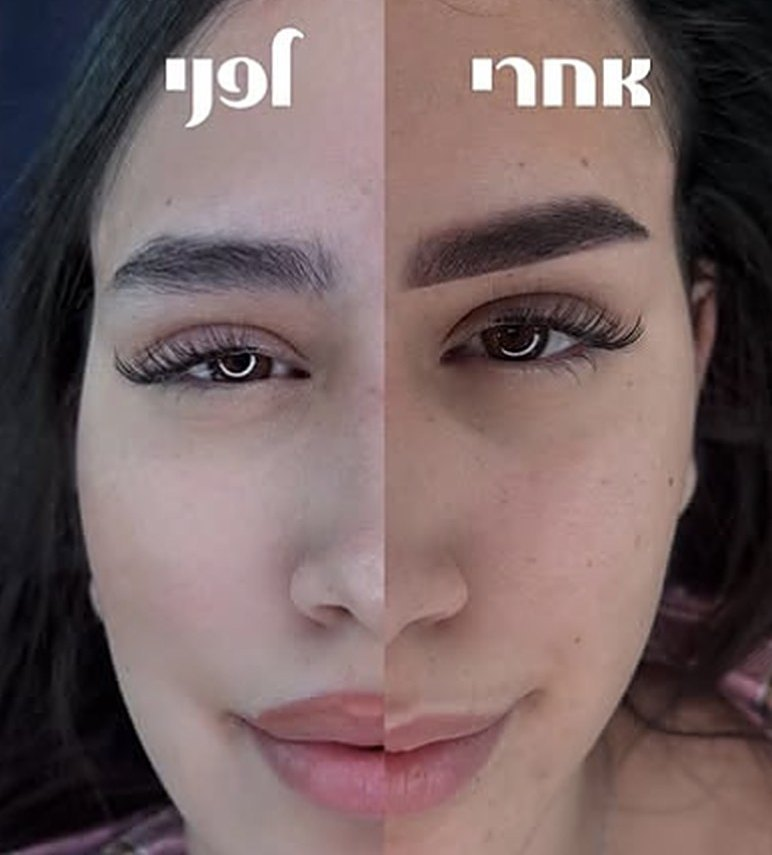
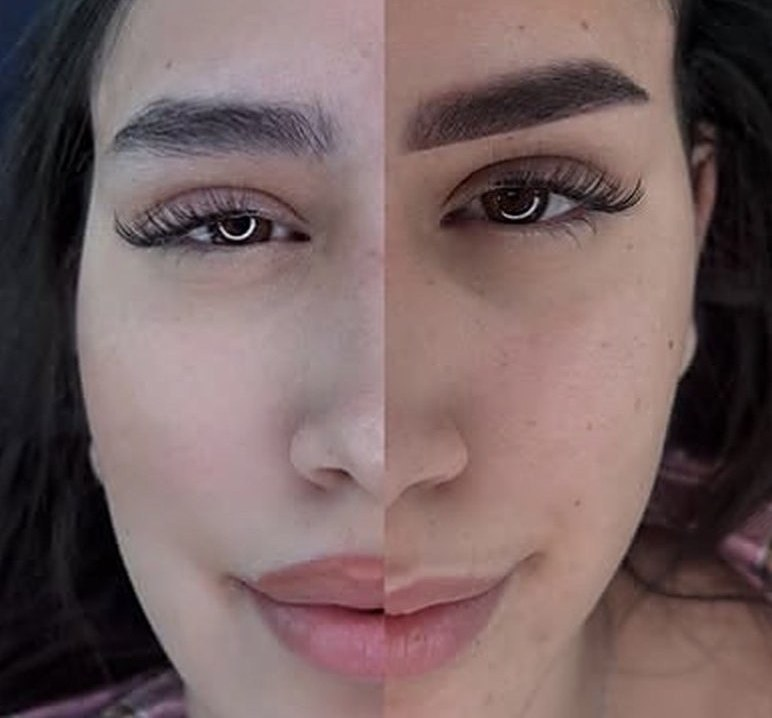
Mirel: cleaner photo crops, drop weaker image, before/after labels
Claude-Session: https://claude.ai/code/session_01DmALFc4ZmMGKfp1yJDhNro

diff --git a/mirel-landing/index.html b/mirel-landing/index.html
@@ -150,6 +150,8 @@ h2 em,h1 em{font-style:normal;color:var(--rose-d)}
 .res .row{display:grid;grid-template-columns:1fr 1fr;gap:16px}
 .res .sm{position:relative;border-radius:var(--r);overflow:hidden;aspect-ratio:4/5}
 .res .sm img{width:100%;height:100%;object-fit:cover}
+.ba-l{position:absolute;top:16px;font:400 15px var(--body);letter-spacing:.08em;background:rgba(251,247,242,.92);color:var(--ink);padding:5px 15px;border-radius:999px}
+.ba-l.l{left:16px}.ba-l.r{right:16px}
 .quote{margin-top:40px;font:400 clamp(30px,8.4vw,54px)/1.25 var(--head);text-align:center}
 .quote em{font-style:normal;color:var(--rose)}
 
@@ -288,7 +290,7 @@ footer .s{font:400 30px/1 var(--sig);color:var(--cream);display:block;margin-bot
     <svg class="brow-div" viewBox="0 0 120 34" data-brow aria-hidden="true"></svg>
     <div class="svc">
       <article class="card" data-reveal>
-        <div class="ph"><img src="img-brows.jpg" alt="גבות מלאות וטבעיות אחרי עיצוב אצל מירל" width="772" height="844" loading="lazy"><span class="num">01</span></div>
+        <div class="ph"><img src="img-brows.jpg" alt="גבות מלאות וטבעיות אחרי עיצוב אצל מירל" width="486" height="790" loading="lazy"><span class="num">01</span></div>
         <div class="bd"><h3>גבות</h3><p>עיצוב ושיקום גבות טבעיות לפי מבנה הפנים שלך. גם גבות דלילות או לא סימטריות חוזרות להיות מלאות.</p>
           <ul><li>עיצוב גבות</li><li>שיקום גבות</li><li>מיקרובליידינג</li></ul></div>
       </article>
@@ -313,10 +315,10 @@ footer .s{font:400 30px/1 var(--sig);color:var(--cream);display:block;margin-bot
     <h2 data-split>לא פילטר. <em>לא איפור.</em></h2>
     <svg class="brow-div" viewBox="0 0 120 34" data-brow aria-hidden="true"></svg>
     <div class="res">
-      <figure class="big" data-reveal><img src="img-ba.jpg" alt="לפני ואחרי עיצוב גבות: צד אחד של הפנים לפני הטיפול והצד השני אחריו" width="772" height="855" loading="lazy"><figcaption>לפני ואחרי · גבות</figcaption></figure>
+      <figure class="big" data-reveal><img src="img-ba.jpg" alt="לפני ואחרי עיצוב גבות: צד אחד של הפנים לפני הטיפול והצד השני אחריו" width="772" height="825" loading="lazy"><span class="ba-l l">לפני</span><span class="ba-l r">אחרי</span><figcaption>גבות</figcaption></figure>
       <div class="row">
-        <figure class="sm" data-reveal><img src="img-lips2.jpg" alt="פיגמנט שפתיים במהלך הטיפול" width="772" height="690" loading="lazy"><figcaption>פיגמנט שפתיים</figcaption></figure>
-        <figure class="sm" data-reveal><img src="img-brows.jpg" alt="גבות טבעיות אחרי טיפול" width="772" height="844" loading="lazy"><figcaption>גבות טבעיות</figcaption></figure>
+        <figure class="sm" data-reveal><img src="img-lashes.jpg" alt="הרמת ריסים, ריסים מורמים ומלאים" width="770" height="843" loading="lazy"><figcaption>הרמת ריסים</figcaption></figure>
+        <figure class="sm" data-reveal><img src="img-brows.jpg" alt="גבות טבעיות אחרי טיפול" width="486" height="790" loading="lazy"><figcaption>גבות טבעיות</figcaption></figure>
       </div>
     </div>
     <p class="quote" data-reveal>המטרה שלי היא שתסתכלי במראה <em>ותאהבי</em> את מה שאת רואה.</p>
